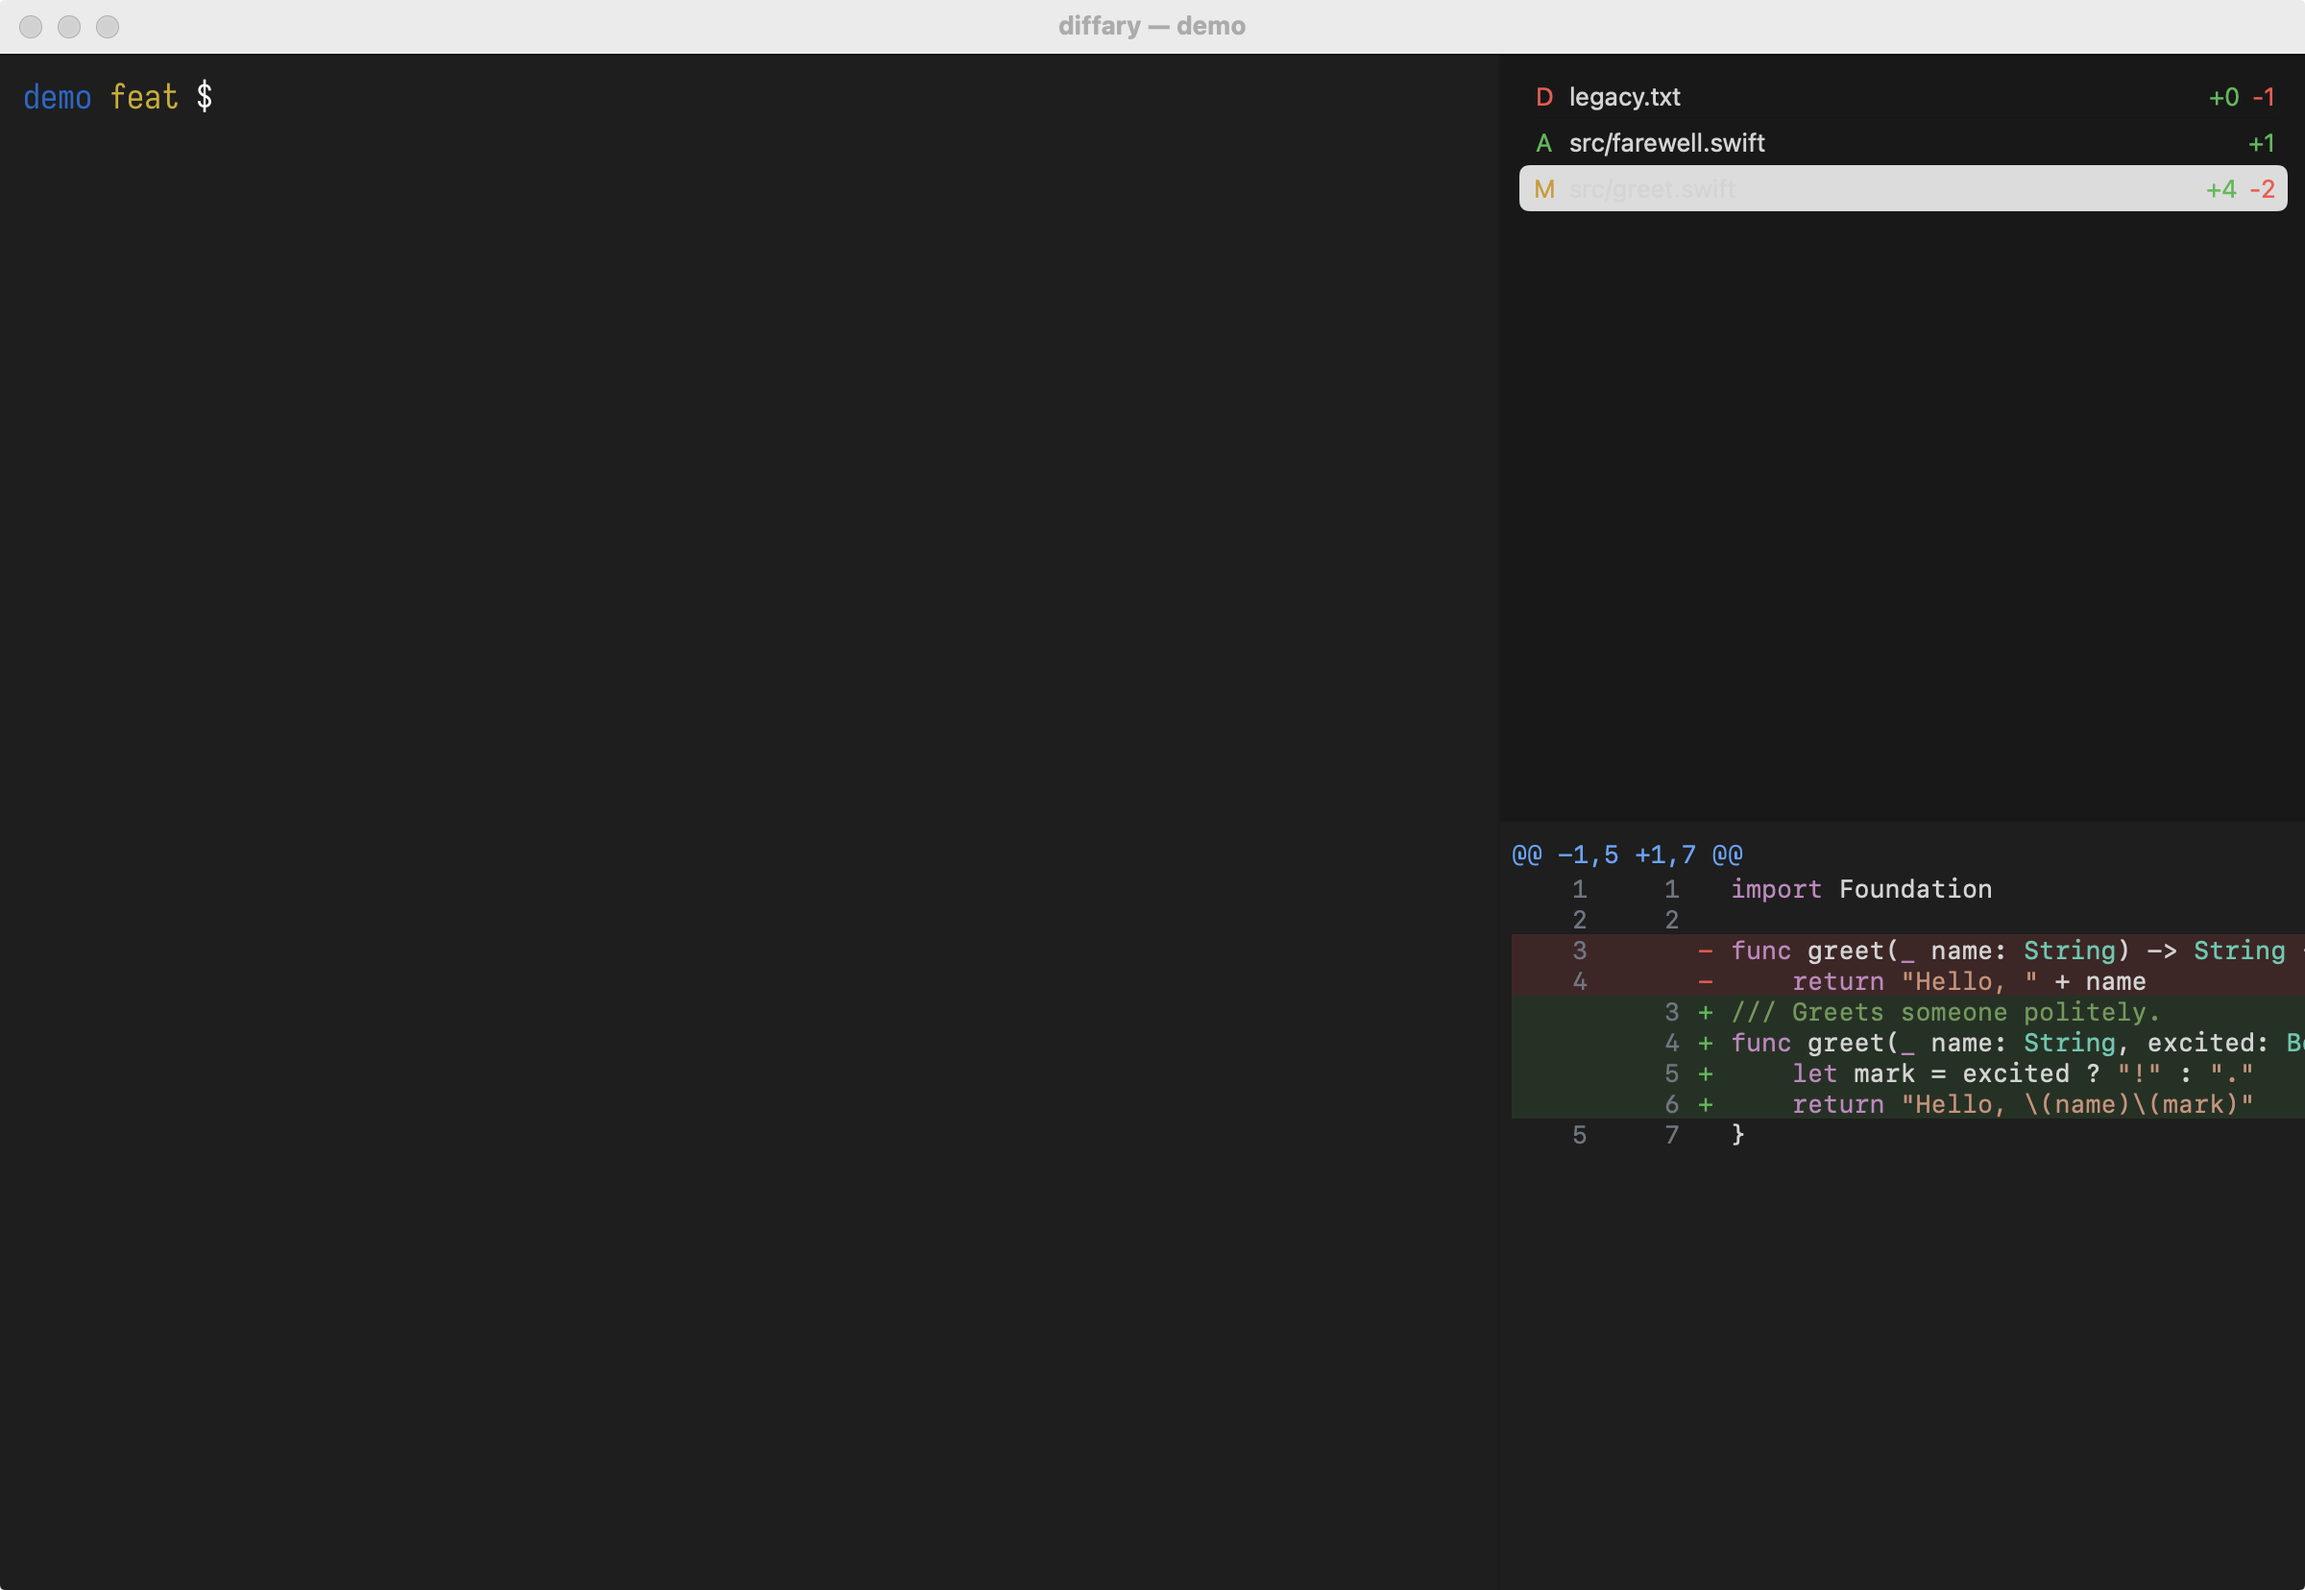
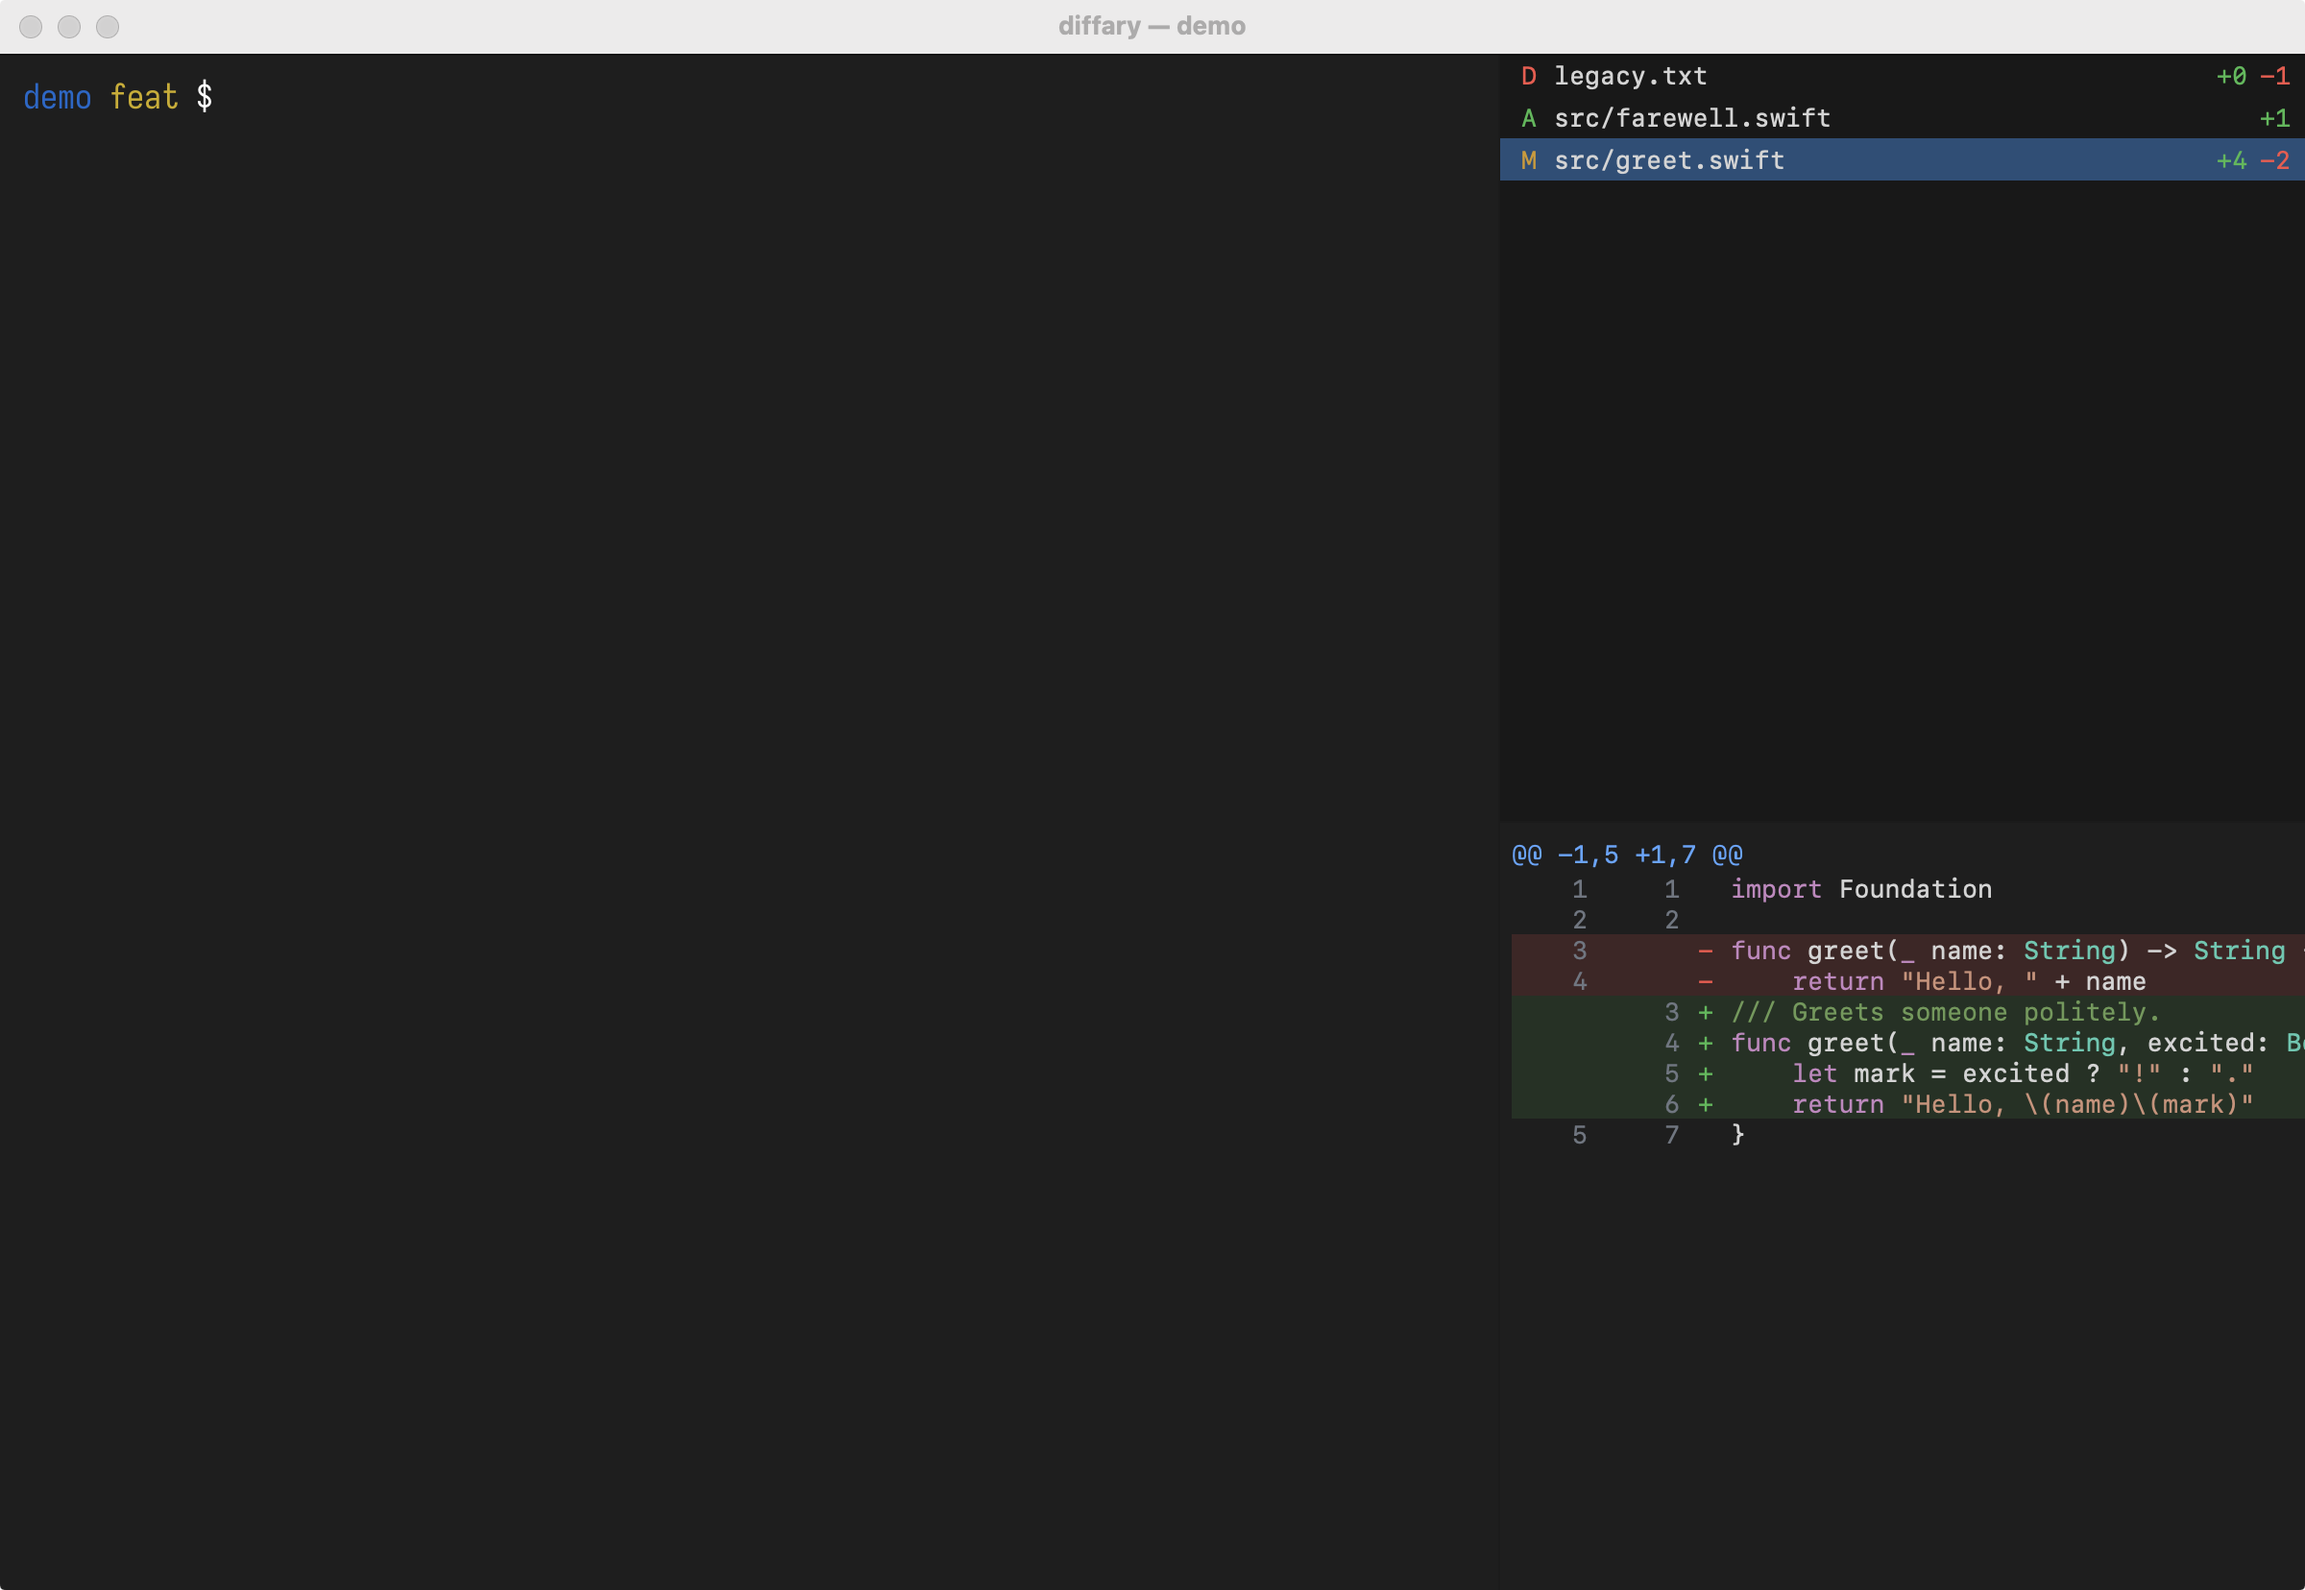
fix(app): theme-colored selected row; docs: README and refreshed screenshots

Changed region(s): [[0.625, 0.0308, 1.0, 0.154]]

diff --git a/Sources/Diffary/FileListView.swift b/Sources/Diffary/FileListView.swift
@@ -18,13 +18,18 @@ struct FileListView: View {
                 if files.isEmpty {
                     Text("No changes vs \(model.settings.baseBranch)").foregroundStyle(Color(t.lineNumber)).padding(8)
                 }
-                List(files, selection: Binding(
-                    get: { model.selected?.path },
-                    set: { path in model.select(files.first { $0.path == path }) }
-                )) { file in
-                    row(file, t).tag(file.path)
+                // Plain rows rather than List: the system selection highlight ignores the theme.
+                ScrollView {
+                    LazyVStack(spacing: 0) {
+                        ForEach(files) { file in
+                            row(file, t)
+                                .padding(.horizontal, 8).padding(.vertical, 3)
+                                .background(model.selected?.path == file.path ? Color(t.selection) : .clear)
+                                .contentShape(Rectangle())
+                                .onTapGesture { model.select(file) }
+                        }
+                    }
                 }
-                .scrollContentBackground(.hidden)
             }
         }
         .font(Font(monoFont(name: model.settings.font, size: model.settings.fontSize) as CTFont))

diff --git a/README.md b/README.md
@@ -1,0 +1,61 @@
+# diffary
+
+A Ghostty terminal with a live sidebar of what your branch changed vs its base.
+
+![unified diff](docs/screenshots/diff-unified.png)
+
+| side-by-side | dark theme | sidebar at bottom |
+|---|---|---|
+| ![](docs/screenshots/diff-side-by-side.png) | ![](docs/screenshots/diff-dark.png) | ![](docs/screenshots/sidebar-bottom.png) |
+
+Regenerate: `scripts/screenshot.sh docs/screenshots/<name>.png [diffary flags]`
+
+## Install
+
+```sh
+scripts/bundle.sh --install                       # → ~/Applications/Diffary.app
+ln -sf "$PWD/scripts/diffary" ~/.local/bin/diffary
+```
+
+Needs the Command Line Tools (no Xcode) and `gh` access to this repo's releases (GhosttyKit is built in CI, on the `macos-15` GitHub Actions runner).
+
+On a Command Line Tools-only machine plain `swift test` fails; run `scripts/test.sh` instead.
+
+## Use
+
+```sh
+diffary [repo] [--config FILE] [--base BRANCH] [--set key=value]...
+```
+
+## Config
+
+`$XDG_CONFIG_HOME/diffary/config.toml` (default `~/.config/diffary/config.toml`). Reloaded on save.
+
+```toml
+base_branch = "master"        # falls back to "main"
+
+[layout]
+sidebar = "right"             # right | left | bottom
+sidebar_size = 0.35           # 0.1–0.9, fraction of window
+diff_position = "below_list"  # below_list | beside_list | replace_terminal
+
+[diff]
+view = "unified"              # unified | side_by_side
+context_lines = 3             # lines before/after each change, 0–1000
+ignore_whitespace = false
+syntax_highlight = true
+
+[appearance]
+font = "JetBrains Mono"       # falls back to system monospace if missing
+font_size = 13
+theme = "auto"                # auto | light | dark | <user theme name>
+```
+
+See `docs/superpowers/specs/2026-11-04-diffary-design.md` for every key and the theme format.
+Themes: `~/.config/diffary/themes/<name>.toml`, selected with `[appearance] theme = "<name>"`.
+Terminal settings come from Ghostty's own config.
+
+## Bumping Ghostty
+
+Put a new sha in `GHOSTTY_COMMIT` and push. CI publishes a new GhosttyKit; `scripts/fetch-ghosttykit.sh` picks it up.
+The embedding API isn't stable, so expect to fix `TerminalView`/`GhosttyRuntime` after a bump.
